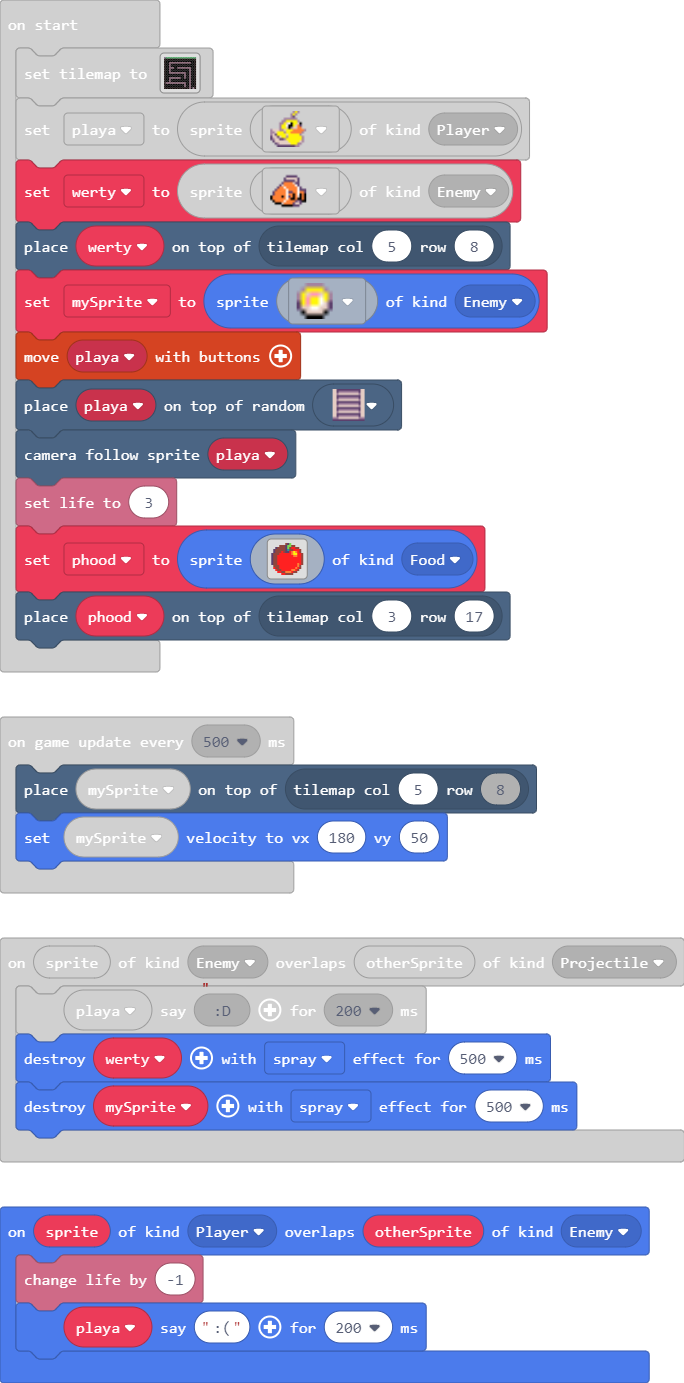
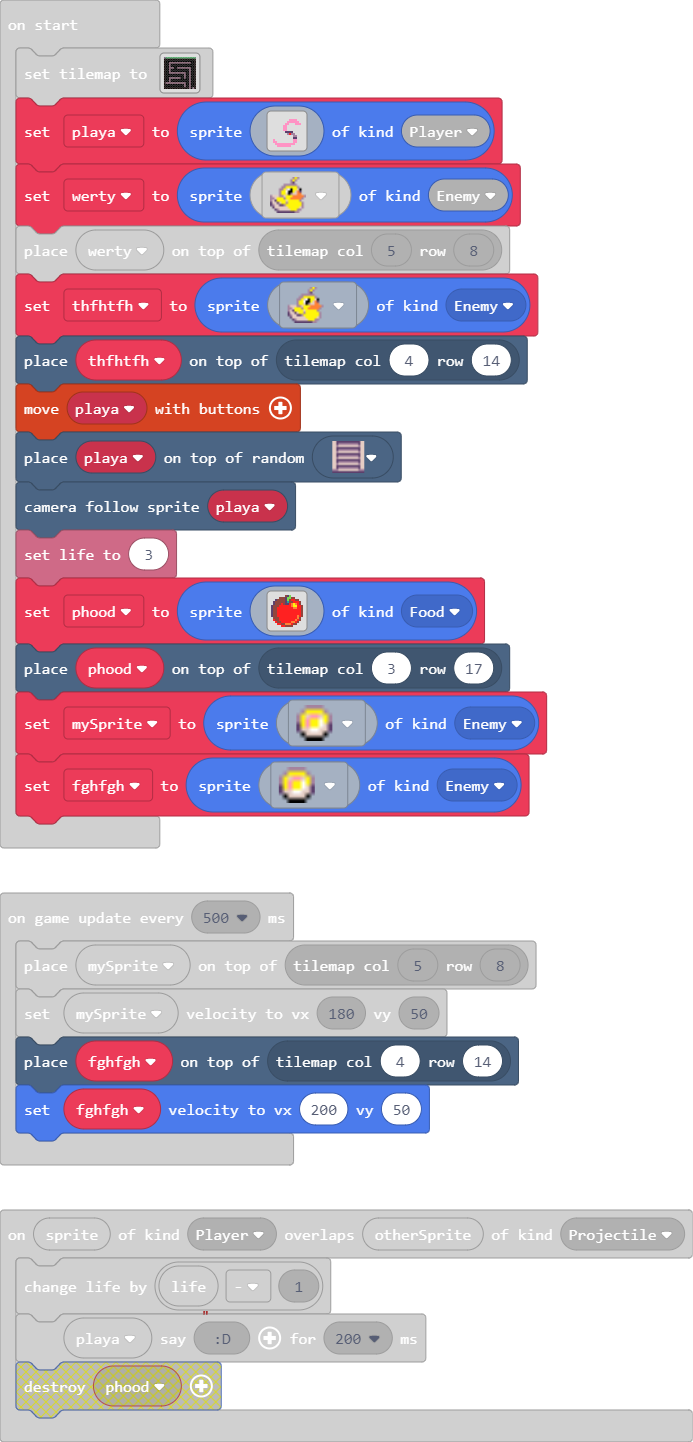
kgkhkg

diff --git a/main.ts b/main.ts
@@ -74,7 +74,6 @@ sprites.onOverlap(SpriteKind.Enemy, SpriteKind.Projectile, function (sprite, oth
 sprites.onOverlap(SpriteKind.Player, SpriteKind.Projectile, function (sprite, otherSprite) {
     info.changeLifeBy(info.life() - 1)
     playa.say(":D", 200)
-    phood.destroy()
 })
 sprites.onOverlap(SpriteKind.Player, SpriteKind.Enemy, function (sprite, otherSprite) {
     info.changeLifeBy(-1)
@@ -84,8 +83,8 @@ info.onLifeZero(function () {
     game.over(false, effects.hearts)
 })
 let projectile: Sprite = null
-let phood: Sprite = null
 let mySprite: Sprite = null
+let phood: Sprite = null
 let werty: Sprite = null
 let playa: Sprite = null
 tiles.setTilemap(tiles.createTilemap(
@@ -114,10 +113,28 @@ tiles.setTilemap(tiles.createTilemap(
             [myTiles.tile0,sprites.dungeon.stairLarge,sprites.dungeon.stairNorth,sprites.builtin.forestTiles6,sprites.builtin.forestTiles9,sprites.builtin.forestTiles10,sprites.builtin.forestTiles7,sprites.builtin.forestTiles11,sprites.builtin.forestTiles8,sprites.builtin.forestTiles12,sprites.builtin.forestTiles1,sprites.builtin.forestTiles29,sprites.builtin.forestTiles27,sprites.builtin.forestTiles24,sprites.builtin.forestTiles20,sprites.builtin.forestTiles18,sprites.builtin.forestTiles19,sprites.builtin.forestTiles17,sprites.builtin.forestTiles26,sprites.dungeon.hazardHole,sprites.builtin.oceanDepths9,sprites.builtin.oceanDepths10,sprites.builtin.forestTiles14,sprites.builtin.forestTiles2,sprites.builtin.forestTiles5,sprites.castle.tileDarkGrass3,sprites.dungeon.stairSouth,sprites.builtin.forestTiles15,sprites.builtin.forestTiles13],
             TileScale.Sixteen
         ))
-playa = sprites.create(sprites.duck.duck3, SpriteKind.Player)
-werty = sprites.create(sprites.builtin.clownFish1, SpriteKind.Enemy)
+playa = sprites.create(img`
+. . . . . . . . . . . . . . . . 
+. . . . . . . . . . . . . . . . 
+. . . . . . . . . 3 3 3 3 . . . 
+. . . . . . . . 3 3 3 3 3 3 . . 
+. . . . . . . 3 3 . . . 3 3 3 . 
+. . . . . . 3 3 . . . . . . . . 
+. . . . . . 3 3 . . . . . . . . 
+. . . . . . 3 3 . . . . . . . . 
+. . . . . . . c c c c . . . . . 
+. . . . . . . . b 2 b b . . . . 
+. . . . . . . . . . . b b . . . 
+. . . . . . . . . . . c c . . . 
+. 3 . . . . . . . . . 3 3 . . . 
+. 3 3 . . . . . . . . 3 3 . . . 
+. . 3 3 3 3 3 3 3 3 3 3 . . . . 
+. . . 3 3 3 3 3 3 3 . . . . . . 
+`, SpriteKind.Player)
+werty = sprites.create(sprites.duck.duck3, SpriteKind.Enemy)
 tiles.placeOnTile(werty, tiles.getTileLocation(5, 8))
-mySprite = sprites.create(sprites.builtin.coin0, SpriteKind.Enemy)
+let thfhtfh = sprites.create(sprites.duck.duck3, SpriteKind.Enemy)
+tiles.placeOnTile(thfhtfh, tiles.getTileLocation(4, 14))
 controller.moveSprite(playa)
 tiles.placeOnRandomTile(playa, sprites.dungeon.stairNorth)
 scene.cameraFollowSprite(playa)
@@ -141,7 +158,11 @@ c e e 2 2 2 2 2 2 2 2 2 2 4 2 e
 . . . . . 2 2 e e e e . . . . . 
 `, SpriteKind.Food)
 tiles.placeOnTile(phood, tiles.getTileLocation(3, 17))
+mySprite = sprites.create(sprites.builtin.coin0, SpriteKind.Enemy)
+let fghfgh = sprites.create(sprites.builtin.coin0, SpriteKind.Enemy)
 game.onUpdateInterval(500, function () {
     tiles.placeOnTile(mySprite, tiles.getTileLocation(5, 8))
     mySprite.setVelocity(180, 50)
+    tiles.placeOnTile(fghfgh, tiles.getTileLocation(4, 14))
+    fghfgh.setVelocity(200, 50)
 })
